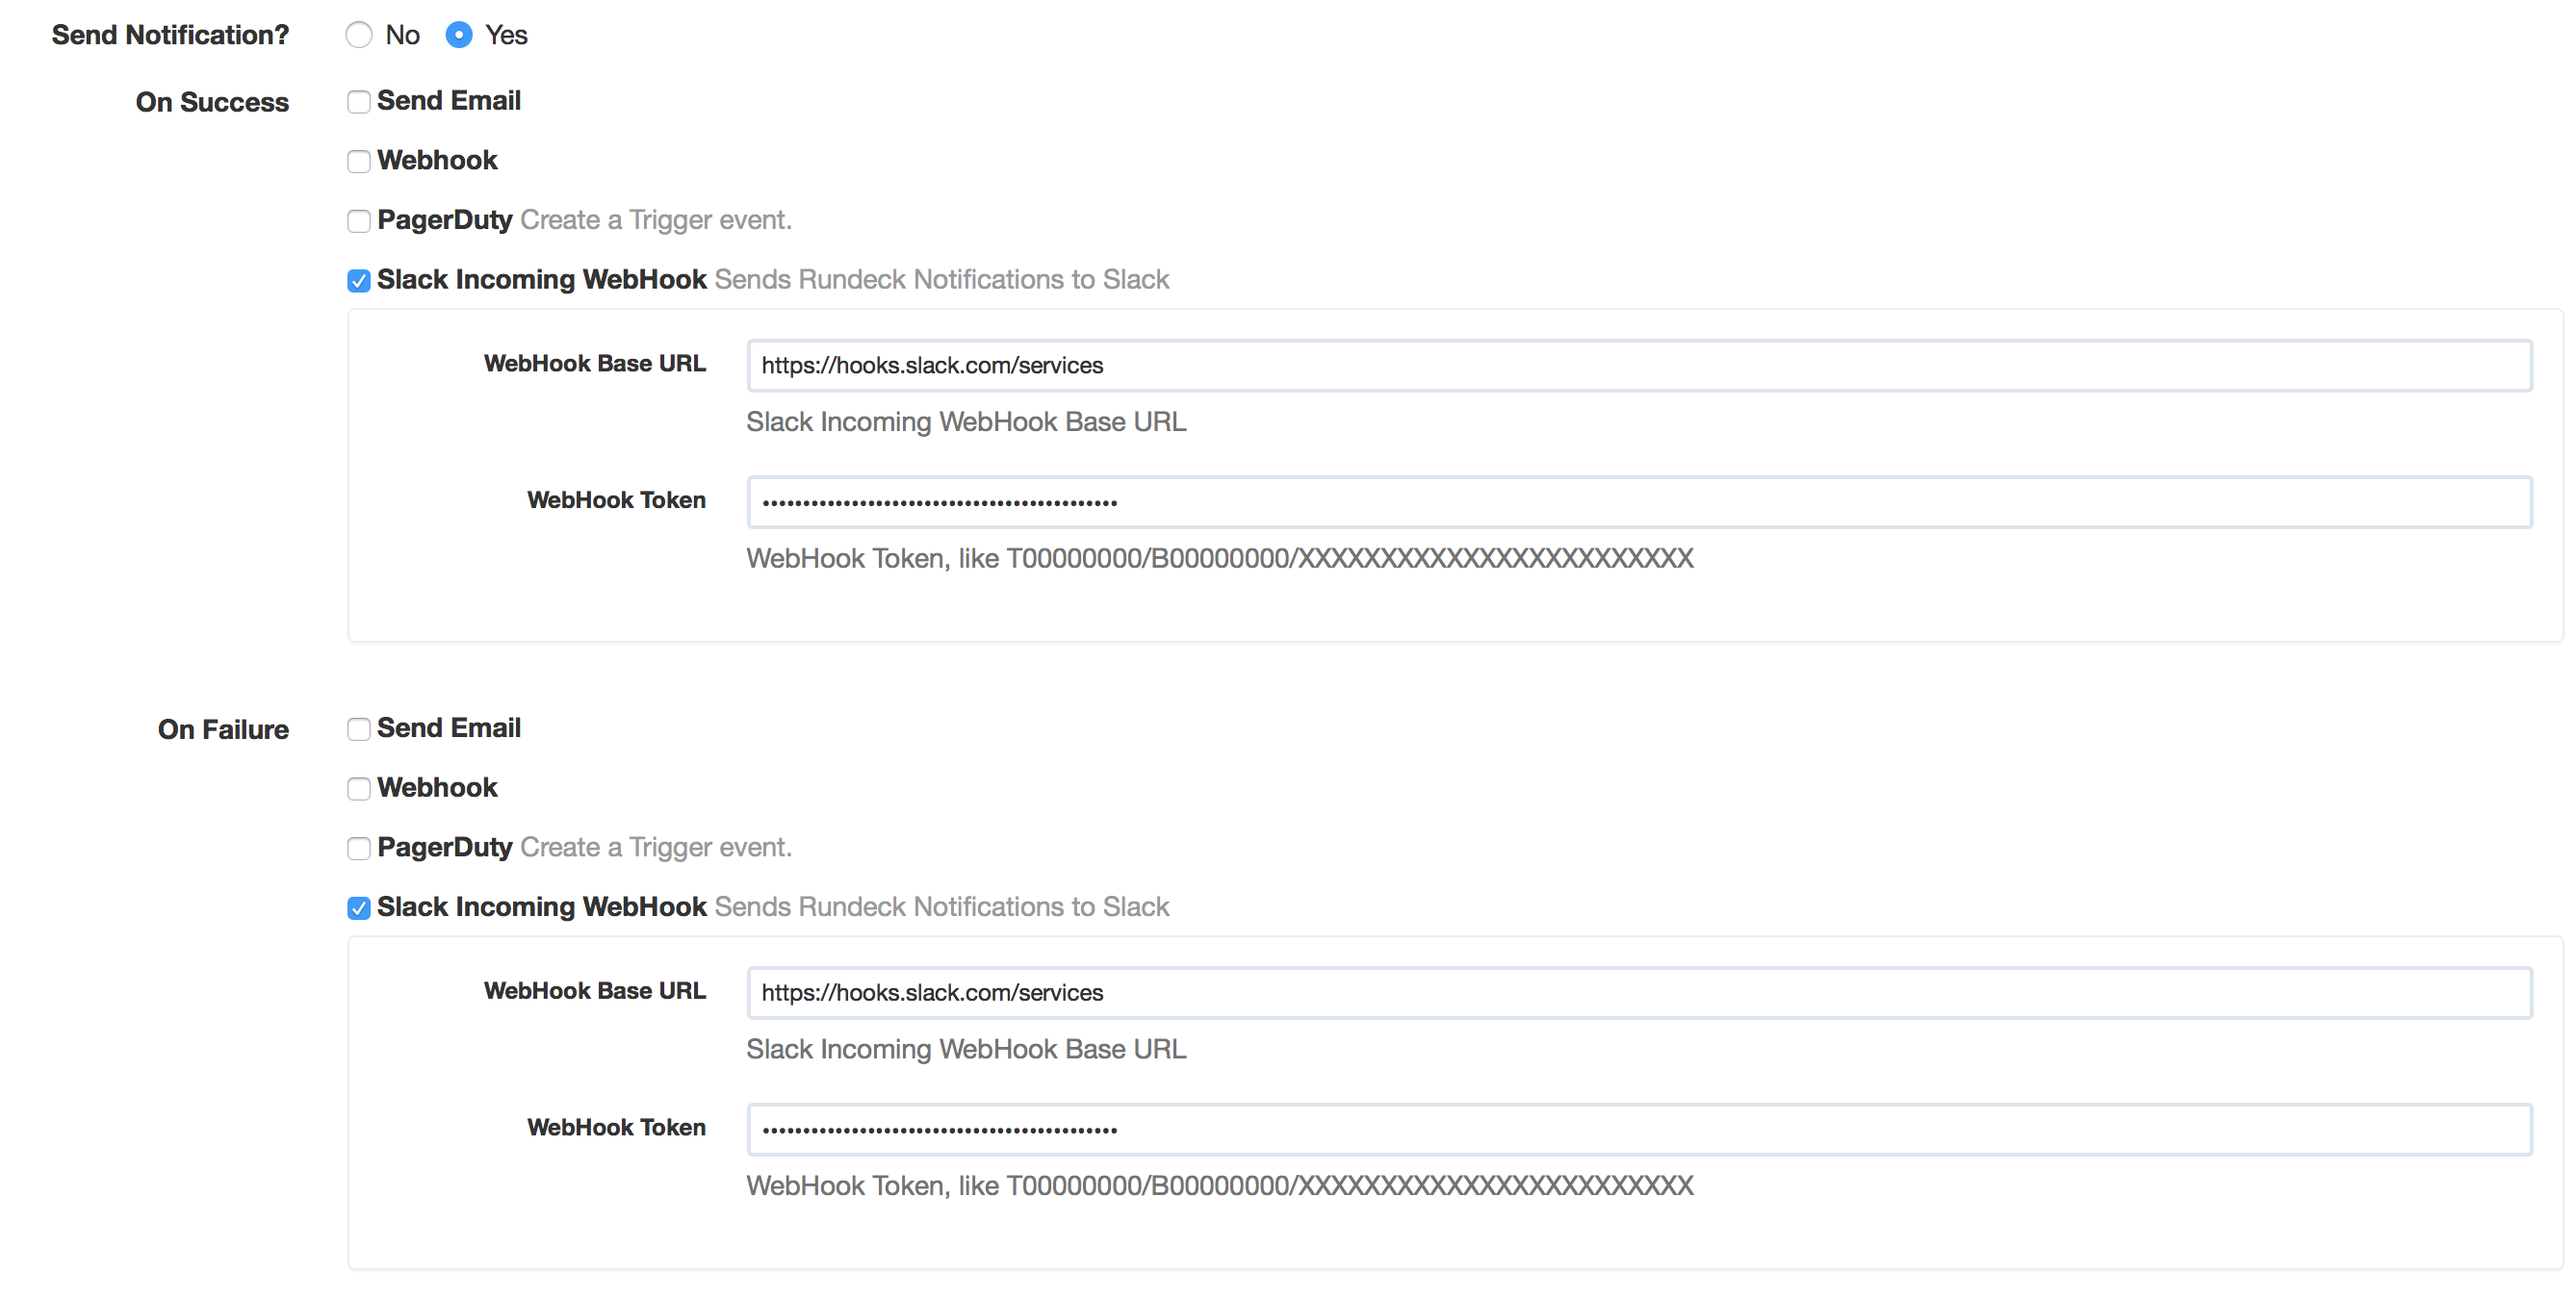
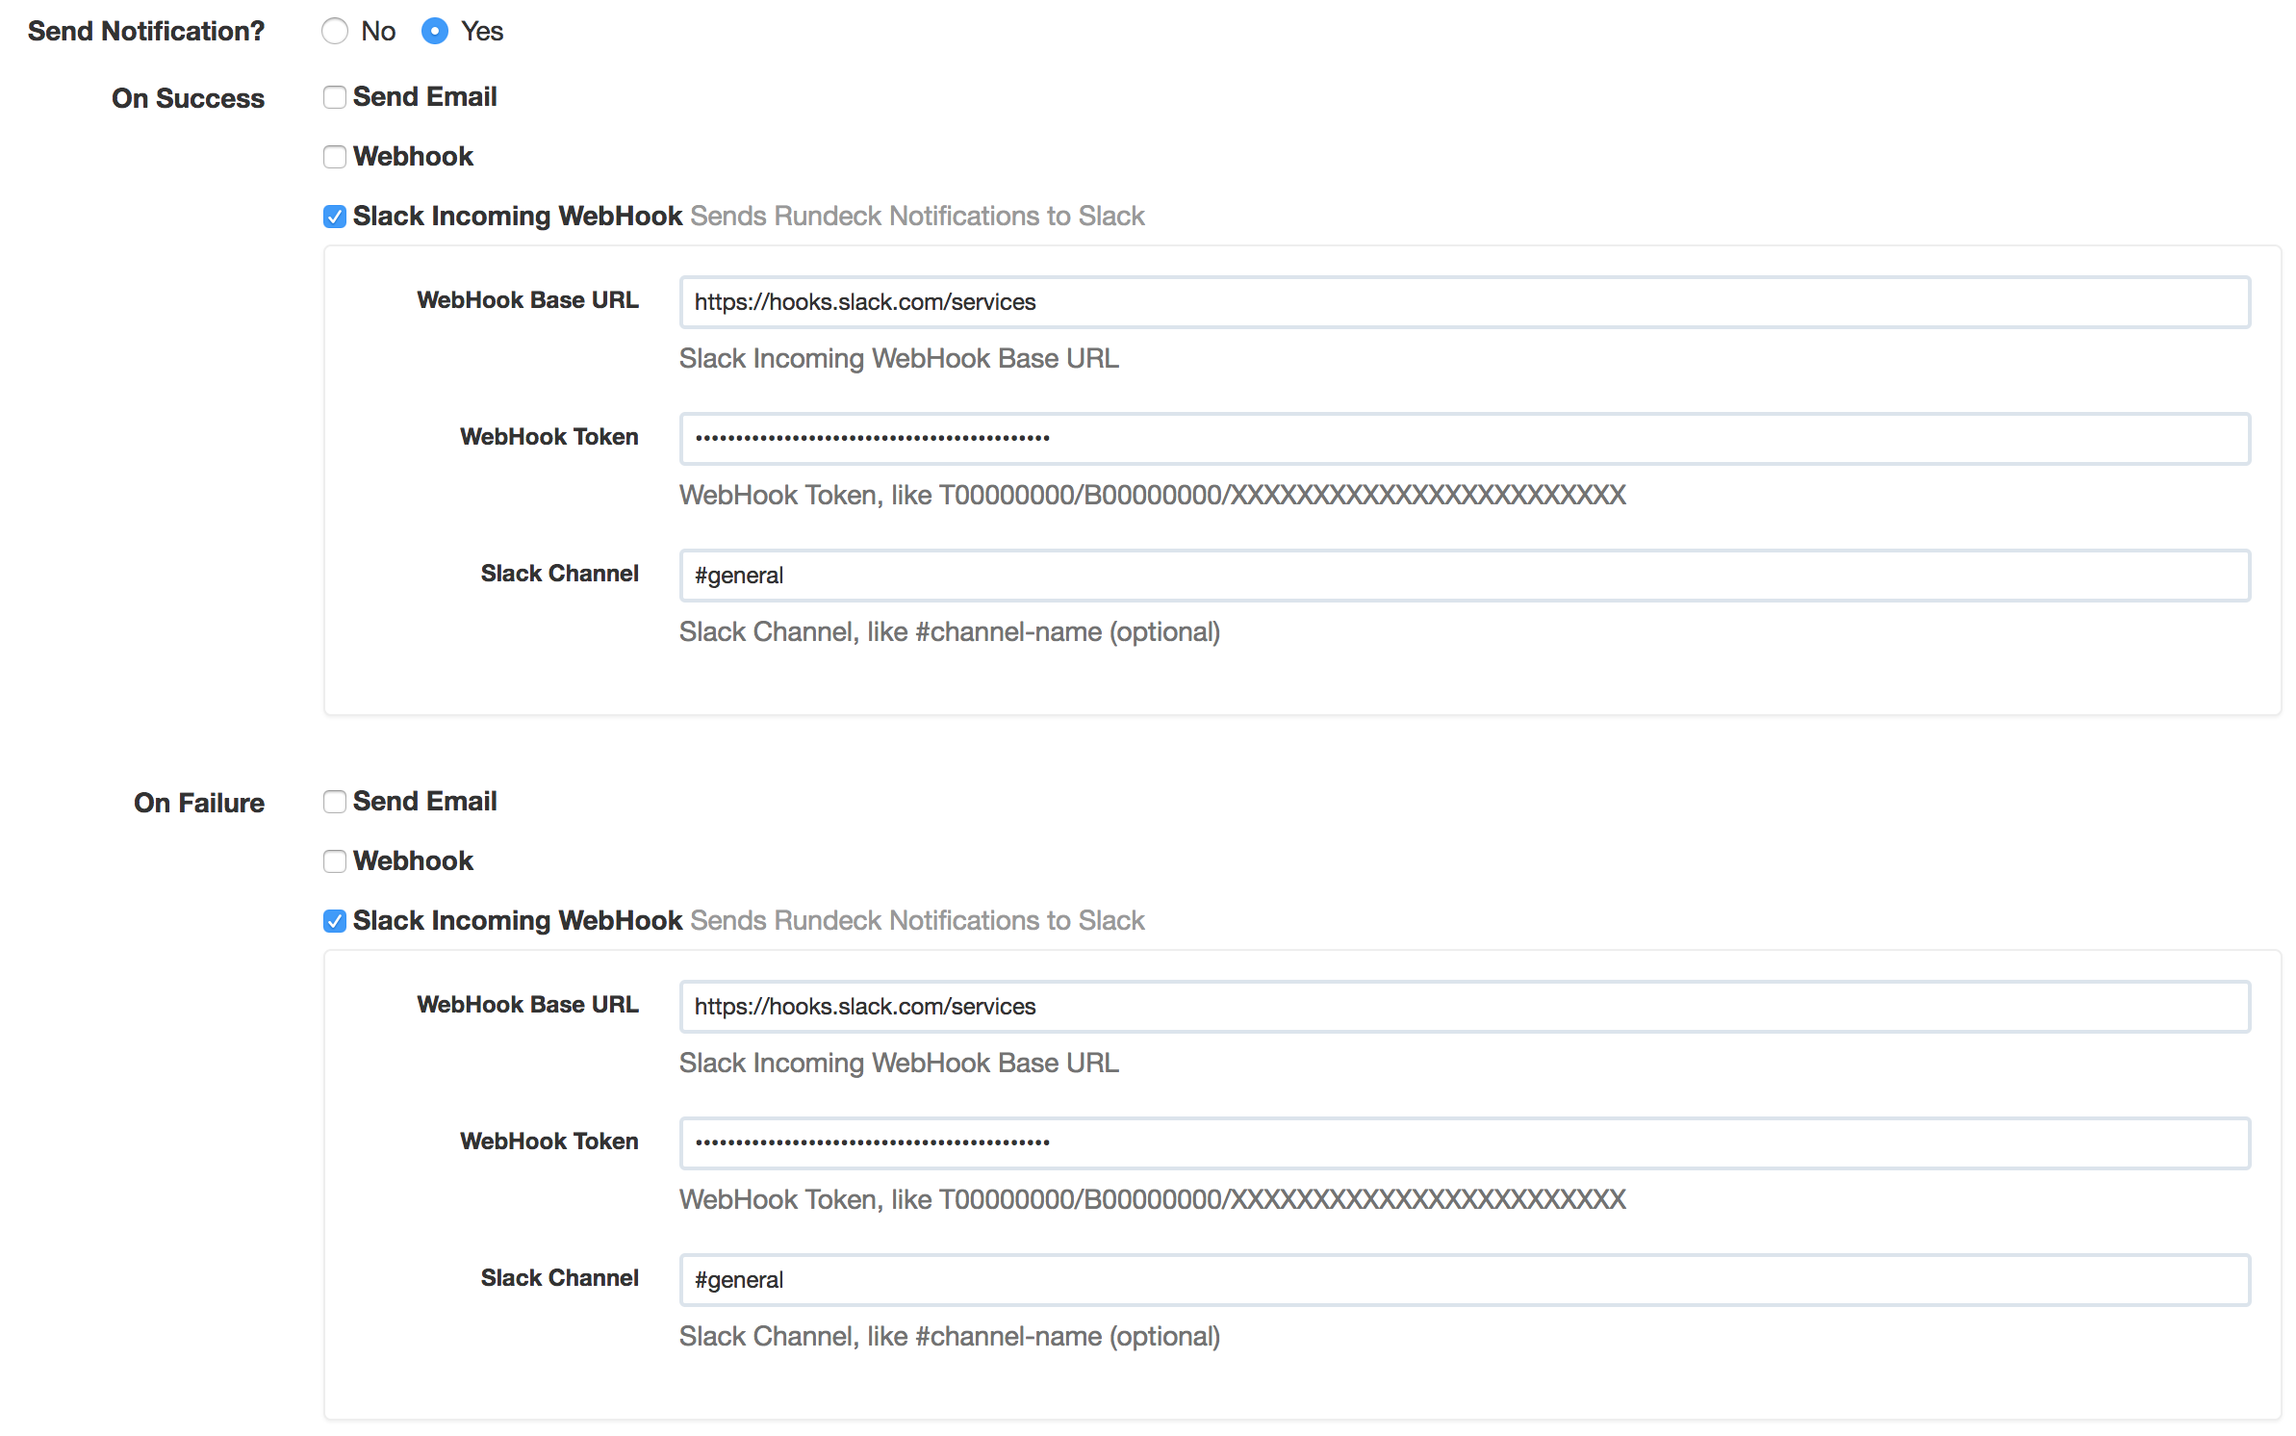
Allow users to specify the slack channel

diff --git a/src/main/java/com/bitplaces/rundeck/plugins/slack/SlackNotificationPlugin.java b/src/main/java/com/bitplaces/rundeck/plugins/slack/SlackNotificationPlugin.java
@@ -69,6 +69,8 @@ public class SlackNotificationPlugin implements NotificationPlugin {
     @PluginProperty(title = "WebHook Token", description = "WebHook Token, like T00000000/B00000000/XXXXXXXXXXXXXXXXXXXXXXXX", required = true)
     private String webhook_token;
 
+    @PluginProperty(title = "Slack Channel", description = "Slack Channel, like #channel-name (optional)")
+    private String slack_channel;
 
     /**
      * Sends a message to a Slack room when a job notification event is raised by Rundeck.
@@ -105,7 +107,7 @@ public class SlackNotificationPlugin implements NotificationPlugin {
 
         String webhook_url=this.webhook_base_url+"/"+this.webhook_token;
 
-        String message = generateMessage(trigger, executionData, config);
+        String message = generateMessage(trigger, executionData, config, this.slack_channel);
         String slackResponse = invokeSlackAPIMethod(webhook_url, message);
         String ms = "payload=" + URLEncoder.encode(message);
 
@@ -118,8 +120,7 @@ public class SlackNotificationPlugin implements NotificationPlugin {
         }
     }
 
-    // private String generateMessage(String trigger, Map executionData, Map config, String channel) {
-    private String generateMessage(String trigger, Map executionData, Map config) {
+    private String generateMessage(String trigger, Map executionData, Map config, String channel) {
         String templateName = TRIGGER_NOTIFICATION_DATA.get(trigger).template;
         String color = TRIGGER_NOTIFICATION_DATA.get(trigger).color;
 
@@ -128,6 +129,9 @@ public class SlackNotificationPlugin implements NotificationPlugin {
         model.put("color", color);
         model.put("executionData", executionData);
         model.put("config", config);
+        if (channel != null) {
+            model.put("channel", channel);
+        }
 
         StringWriter sw = new StringWriter();
         try {
